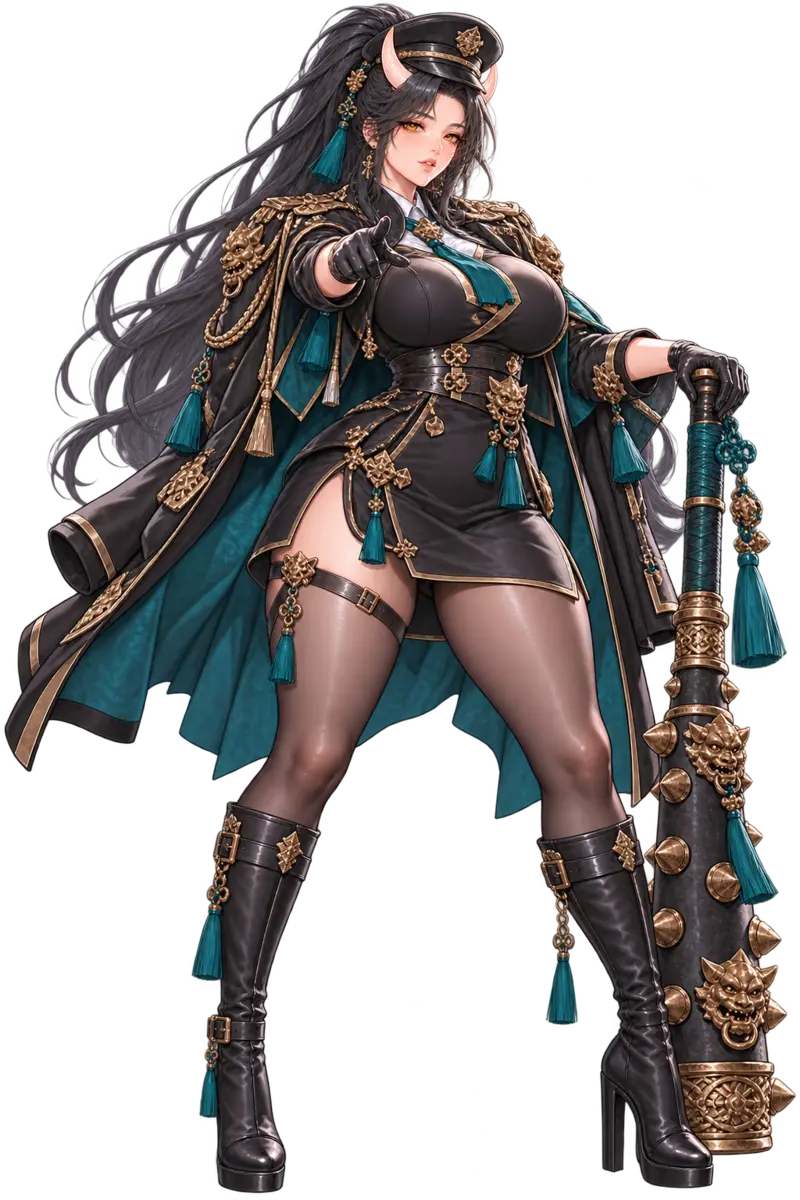
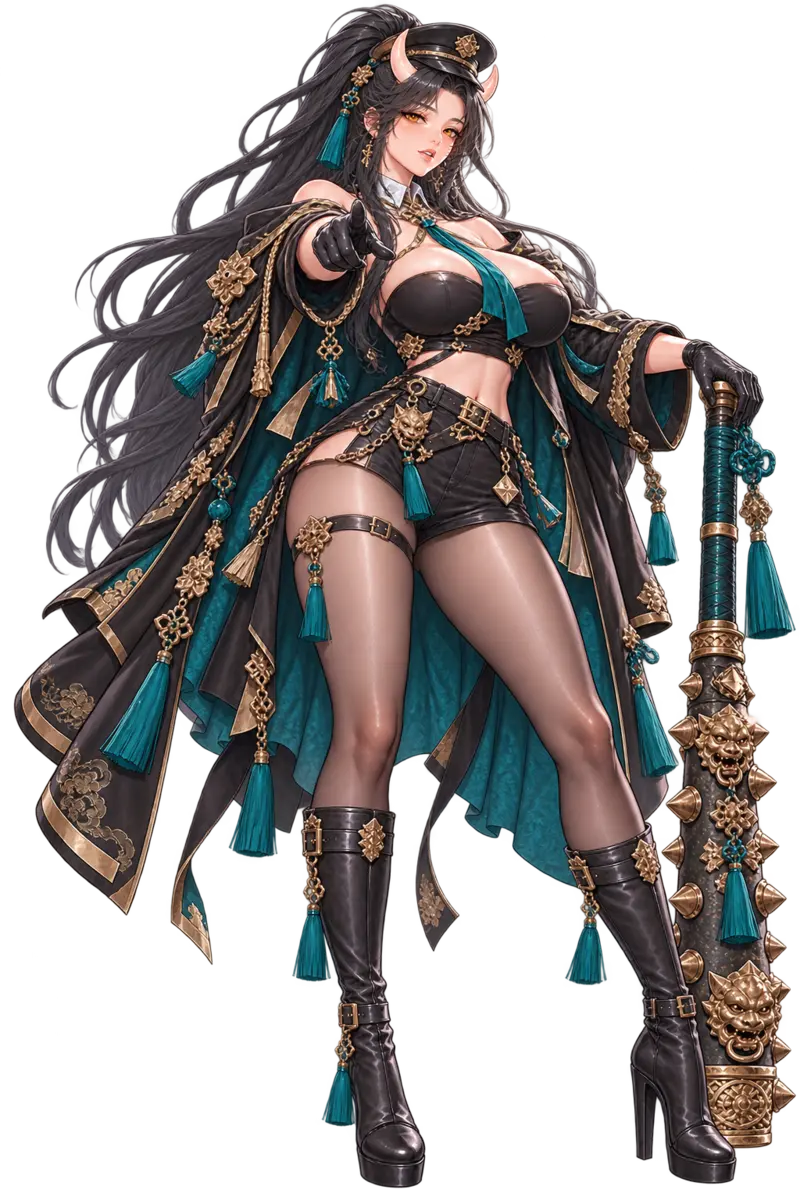
sample: 키 크고 다리 긴 비율, 더 과감한 옷
- 골반을 키우다 짧고 뭉툭해진 비율을 머리 크기 8배 정도 키, 긴 다리로 고침
- 백설·무영·소담 옷을 배·어깨를 드러내고 치마를 더 짧게
- 그림 프롬프트와 디자인 기준 문서에 같은 기준을 적음

Claude-Session: https://claude.ai/code/session_01AG3ixGBdGKPAAzXvjh6L4F

diff --git a/src/data/art.ts b/src/data/art.ts
@@ -11,8 +11,8 @@ const STYLE =
 // 디자인 기준은 docs/CHARACTER_GUIDE.md. 체형은 공통, 옷과 자세는 식객마다 다르게(subject에 적는다).
 const HEROINE =
   'Polished Korean gacha-game character art: soft airbrushed shading, glossy luminous skin with a warm blush, detailed glossy eyes. ' +
-  'The character is clearly an adult woman in her late twenties, very beautiful and glamorous, with a voluptuous figure: large bust, narrow waist, wide hips and full thighs. ' +
-  'Her fitted outfit shows her curves; her outfit, pose and expression follow the subject description and express her personality. ' +
+  'The character is clearly an adult woman in her late twenties, very beautiful and glamorous: tall and long-legged (about eight heads tall, small head, legs longer than half her height), large bust, slim waist, curvy hips in proportion (not exaggerated) and full shapely thighs; she must not look short or stocky. ' +
+  'Bold, daring outfit that shows skin (bare midriff, bare shoulders, deep neckline, short skirt) and her curves; her outfit, pose and expression follow the subject description and express her personality. ' +
   'Alluring but tasteful and non-explicit: no nudity, no underwear visible, no low camera angle looking up the skirt.';
 
 const FRAME = {

diff --git a/docs/CHARACTER_GUIDE.md b/docs/CHARACTER_GUIDE.md
@@ -21,10 +21,10 @@
 2. **자세가 성격을 말한다.** 식객마다 대표 자세를 하나씩 정하고 겹치지 않게 한다.
 3. **검은 실루엣 시험.** 까맣게 칠해도 누구인지 알아볼 수 있어야 한다. 머리 모양, 옷 윤곽, 소품 셋 중 둘은 남과 달라야 한다.
 4. **대표 색 2~3개.** 다른 식객과 주된 색이 겹치지 않게 한다.
-5. **체형.** 모두 성인 여성이고 큰 가슴, 가는 허리, 넓은 골반, 굵은 허벅지의 글래머 체형이다(니케 기준). 다리가 너무 가늘면 안 된다.
+5. **체형.** 모두 성인 여성이고 키가 크고 다리가 길다(머리 크기의 8배 정도 키, 다리가 키의 절반 이상). 큰 가슴, 가는 허리, 탄탄한 허벅지의 글래머 체형이다. 골반을 너무 키우면 키가 작고 뭉툭해 보이니 비율에 맞춘다. 다리가 너무 가늘어도 안 된다.
 6. **구도와 채색(니케 참고).** 대표 그림은 전신(앉은 자세 포함)으로, 두 발이 바닥이나 의자에 제대로 닿게 한다. 옷은 현대 패션(제복, 미니스커트, 재킷, 스타킹, 부츠)에 저고리 깃·리본·노리개 같은 조선 요소를 섞는다. 시점은 눈높이로 하고, 아래에서 치마 속을 올려다보는 각도는 쓰지 않는다. 명암은 부드럽게 번지게, 피부는 윤기 있게, 볼은 붉게 한다. 표정은 장난스럽거나 유혹적으로 성격을 드러낸다.
 7. **꾸밈은 적게.** 금장식, 겹겹 장신구, 꽃잎, 반짝이 효과는 넣지 않는다. 눈길은 얼굴, 몸선, 소품에 모은다.
-8. **노출 수위.** 매력적이되 노골적이지 않게 한다. 맨살이 드러나도 속옷이나 맨몸은 보이지 않는다.
+8. **노출 수위.** 과감하게 간다(드러난 배, 어깨, 깊은 목선, 짧은 치마). 다만 속옷이나 맨몸은 보이지 않게 한다.
 
 ## 1부 식객 디자인표
 
